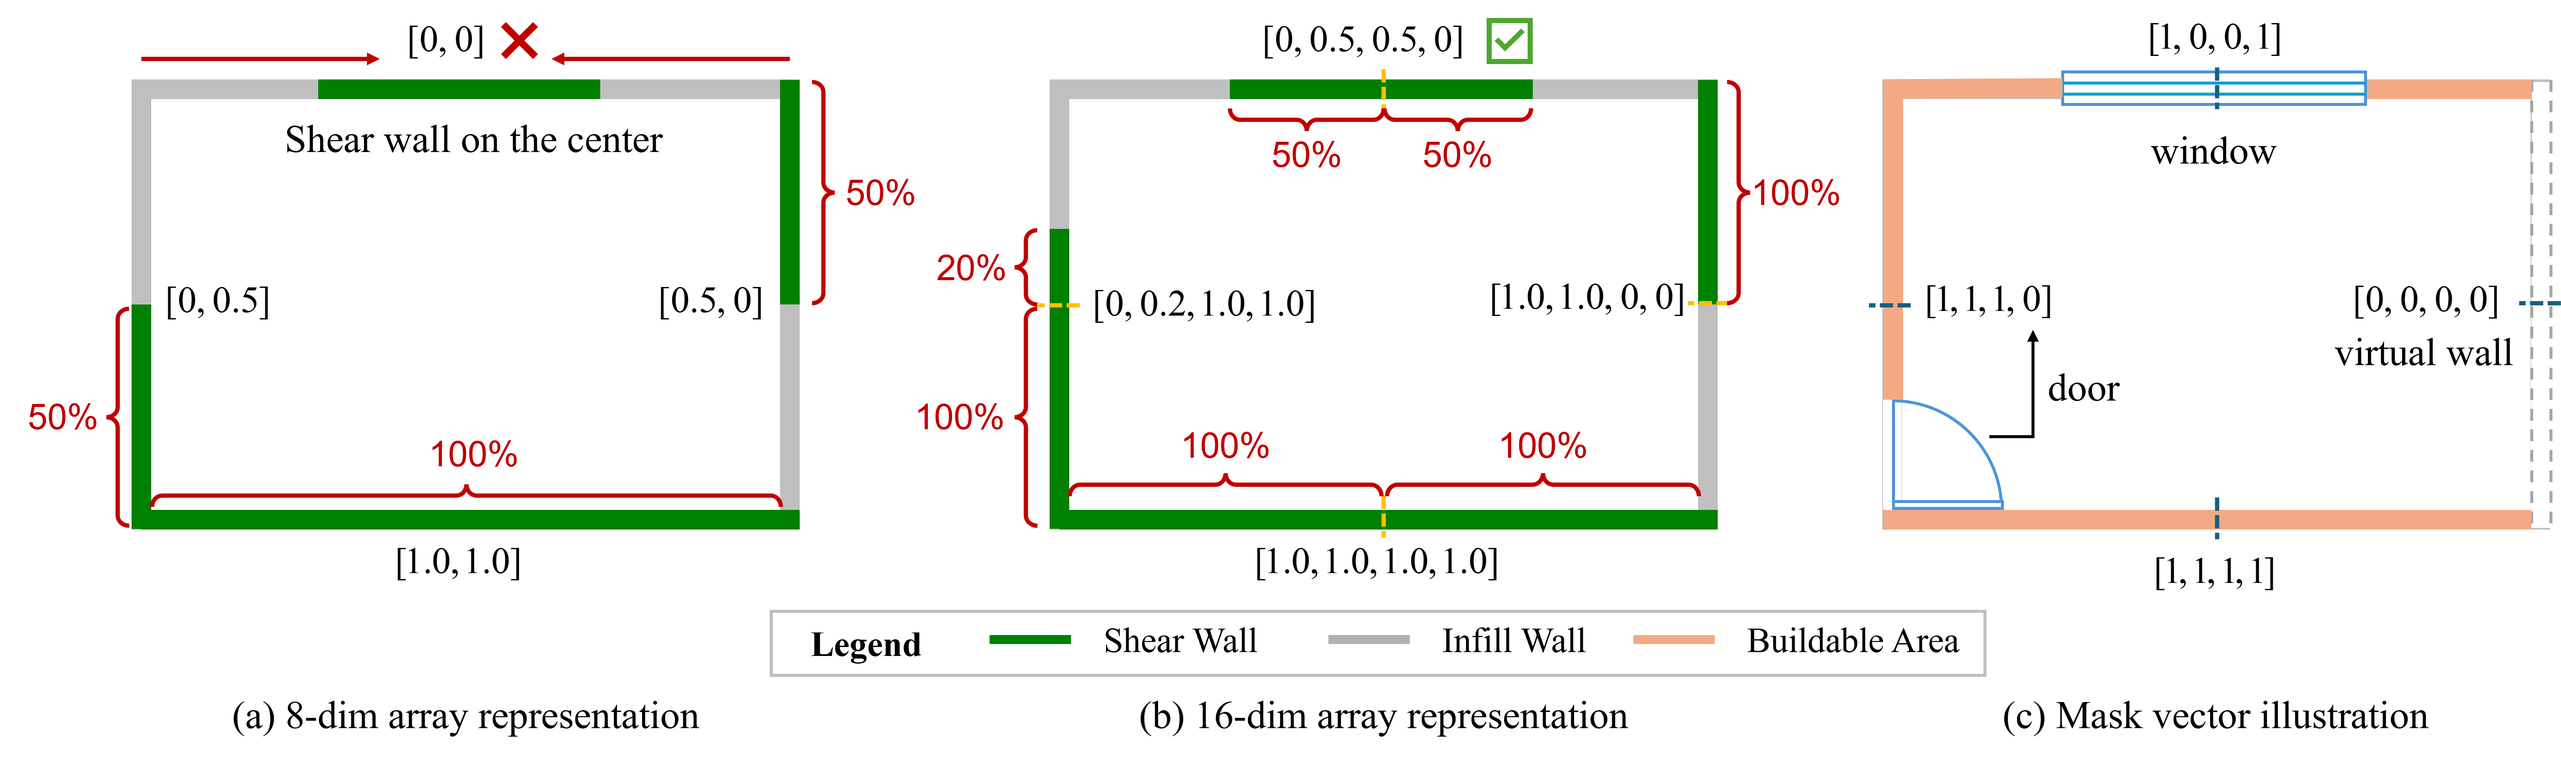
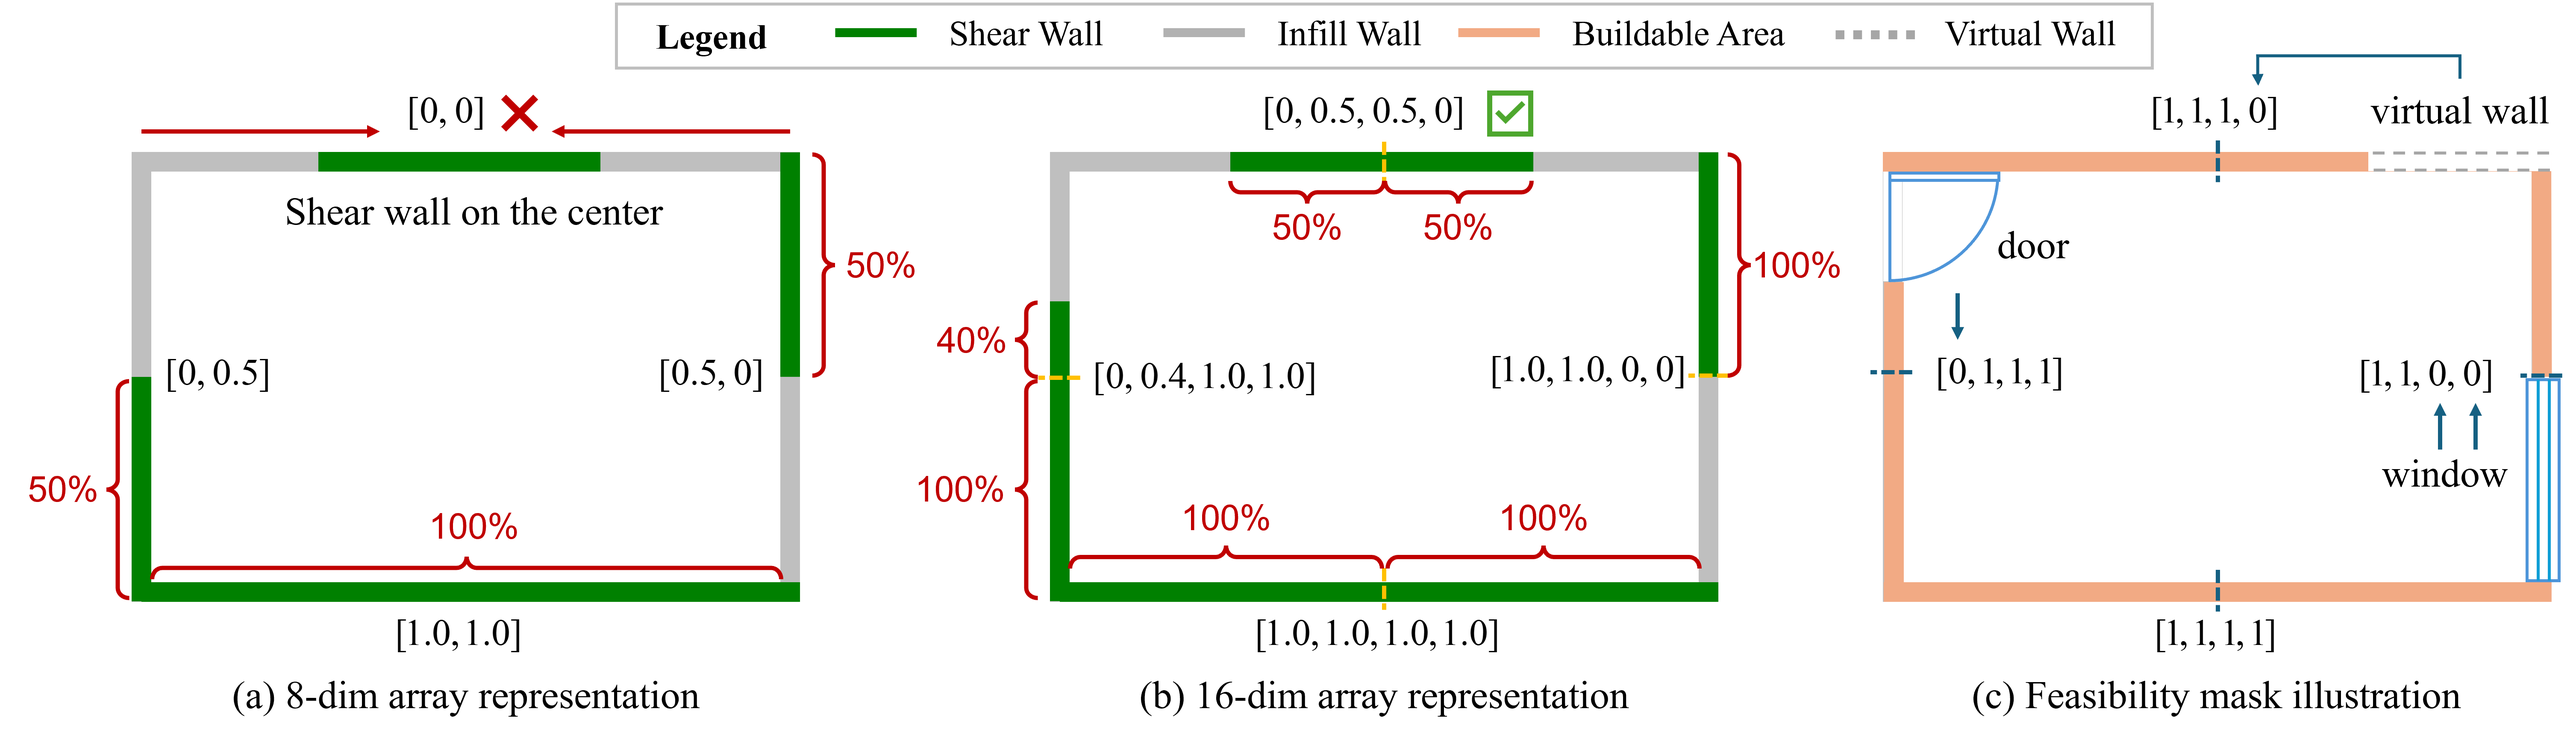
图片及正文的一些修改

diff --git a/docs/paper/latex/3methodology.tex b/docs/paper/latex/3methodology.tex
@@ -75,21 +75,21 @@ Given an architectural floor plan $\mathcal{P}$ in CAD format, the room adjacenc
 
 \textbf{Step 1: Space Partitioning.} \textcolor{red}{Wall, door and window entities are first parsed from the CAD drawing according to their layer types. Double-line wall boundaries are converted into wall centerlines, and door/window embedded segments are projected onto their host walls as openings. The wall centerlines are then calibrated by closing small drafting gaps, merging nearly collinear segments, and adjusting intersections within a geometric tolerance, producing a connected floor-plan skeleton. Polygonizing this calibrated skeleton yields closed spatial regions.} To process complex architectural layouts, a rectilinear decomposition algorithm is applied to partition any non-rectangular regions (e.g., L-shaped or T-shaped spaces) into a set of axis-aligned rectangular sub-regions. \textcolor{red}{Corridors and circulation spaces follow the same rule: rectangular regions remain unchanged, whereas irregular connected regions are decomposed into rectangular sub-regions so that the fixed boundary-slot representation introduced in Section~\ref{subsubsec:output_param} remains applicable.}
 
-\textbf{Step 2: Room Node Registration.} Each resulting rectangular sub-region with an area exceeding a minimum threshold is registered as a room node $v_i$. \textcolor{red}{Openings are associated with the corresponding room-boundary segments according to geometric overlap, so that wall placement is prohibited where doors or windows interrupt a boundary. During dataset preparation, room partitions were manually checked; visually enclosed regions that were already covered by surrounding room partitions and did not introduce an independent room or additional physical boundary were not registered as separate nodes, as shown in the white regions in Fig.~\ref{fig:graph_comparison}b.} Partition boundaries introduced during the decomposition step are treated as virtual edges that carry no structural meaning and are therefore excluded from feasible wall placement.
+\textbf{Step 2: Room Node Registration.} Each resulting rectangular sub-region with an area exceeding a minimum threshold is registered as a room node $v_i$. \textcolor{red}{Openings are associated with the corresponding room-boundary segments according to geometric overlap, so that wall placement is prohibited where doors or windows interrupt a boundary. During dataset preparation, room partitions were manually annotated; visually enclosed regions that were already covered by surrounding room partitions and did not introduce an independent room or additional physical boundary were not registered as separate nodes, as shown in the white regions in Fig.~\ref{fig:graph_comparison}b.} Partition boundaries introduced during the decomposition step are treated as virtual edges that carry no structural meaning and are therefore excluded from feasible wall placement.
 
 \textbf{Step 3: Adjacency Edge Construction.} For each pair of rooms, the shared physical boundary length $l_{ij}$ is computed. An adjacency edge $e_{ij}$ is added to $\mathcal{E}$ only if $l_{ij}$ exceeds a physical threshold $\tau_{adj}$ (set to 400 mm), which filters out minor or accidental structural contacts.
 
 \textbf{Step 4: Attribute \& Label Mapping.} Finally, the room-boundary slots, node features $\mathbf{X}$, and edge attributes $\mathbf{A}$ are computed from room geometry and spatial relationships. Ground-truth shear wall locations are extracted from structural engineering drawings and mapped to the same boundary-slot representation. \textcolor{red}{During this mapping, the effective length of a shear wall is defined as the projected overlap length between an extracted structural wall segment and a feasible room-boundary slot. Multiple wall intervals on the same slot are merged before the final coverage ratio is computed. The detailed output representation, feasibility mask, node features, and edge attributes are described in Sections~\ref{subsubsec:output_param}--\ref{subsubsec:edge_features}.}
 
-\subsubsection{Output parameterization}
+\subsubsection{Room-boundary representation and feasibility mask}
 \label{subsubsec:output_param}
 
 The shear wall layout for each room $v_i$ is parameterized as a continuous vector $\mathbf{y}_i \in [0,1]^{16}$.
 This parameterization captures wall placement along all four room boundaries with segment-level precision.
 An 8-dimensional alternative would regress two coverage ratios for each of the four boundaries (e.g., measured from the two endpoints of each boundary).
-However, this representation fails when a wall segment lies in the interior of a boundary without touching either endpoint, as both endpoint-based ratios would be close to zero and the wall could be incorrectly treated as absent.
+However, this representation fails when a wall segment lies in the interior of a boundary without touching either endpoint, as both endpoint-based ratios would be close to zero and the wall could be incorrectly treated as absent, as shown in Fig.~\ref{fig:output_param}a.
 To avoid this ambiguity, each boundary (top, right, bottom, left) is split at its midpoint into two half-segments, yielding 8 half-segments in total.
-Each half-segment is then described by two ratios, which together provide sufficient flexibility to represent walls attached to an endpoint as well as walls located away from endpoints (Fig.~\ref{fig:output_param}a,b).
+Each half-segment is then described by two ratios, which together provide sufficient flexibility to represent walls attached to an endpoint as well as walls located away from endpoints (Fig.~\ref{fig:output_param}b).
 For each half-segment $k \in \{1, \ldots, 8\}$, two values encode the wall coverage:
 
 $r_k^{start}$ denotes the fraction of the half-segment covered by wall starting from the segment's origin.
@@ -120,7 +120,7 @@ The topological consistency loss $\mathcal{L}_{cons}$ (Section~\ref{subsec:train
 \begin{figure*}[t]
 \centering
 \includegraphics[width=0.85\textwidth]{output_param_and_mask.png}
-\caption{Illustration of the 16-dimensional room-level output parameterization and the corresponding constraint mask.}
+\caption{Illustration of the 16-dimensional room-boundary representation and the corresponding feasibility mask.}
 \label{fig:output_param}
 \end{figure*}
 

diff --git a/docs/paper/latex/main.tex b/docs/paper/latex/main.tex
@@ -208,7 +208,6 @@ The dataset and all codes for this study are available by request to the corresp
 \section*{Declaration of Competing Interest}
 The authors declare that they have no known competing financial interests or personal relationships that could have appeared to influence the work reported in this paper.
 
-\par\vspace{\baselineskip}
 \section*{CRediT authorship contribution statement}
 Hao Leng: Conceptualization, Methodology, Software, Formal analysis, Data curation, Writing – original draft \& Visualization. Yuqing Gao: Conceptualization, Methodology, Editing, Review, Supervision. Ying Zhou: Conceptualization, Review, Supervision, Project administration, Funding acquisition. 
 

diff --git a/docs/paper/latex/4experiments.tex b/docs/paper/latex/4experiments.tex
@@ -37,10 +37,10 @@ Samples after augmentation (train) & 678 \\
 \toprule
 Weight setting & Full model & w/o FiLM & w/o dual-stream & w/o density loss \\
 \midrule
-Equal weights $(1/3,1/3,1/3)$ & 0.701 & 0.700 & 0.692 & 0.651 \\
+Equal weights $(1/3,1/3,1/3)$ & 0.708 & 0.700 & 0.692 & 0.651 \\
 Density-oriented $(0.5,0.25,0.25)$ & 0.713 & 0.713 & 0.702 & 0.640 \\
 Geometry-oriented $(0.25,0.5,0.25)$ & 0.661 & 0.652 & 0.650 & 0.624 \\
-Uniformity-oriented $(0.25,0.25,0.5)$ & 0.729 & 0.735 & 0.725 & 0.690 \\
+Uniformity-oriented $(0.25,0.25,0.5)$ & 0.729 & 0.715 & 0.725 & 0.690 \\
 \bottomrule
 \end{tabular*}
 \endgroup

diff --git a/docs/paper/revision/editor_comments.md b/docs/paper/revision/editor_comments.md
@@ -1,0 +1,12 @@
+Associate Editor: Thank you for choosing Automation in Construction to publish your work. The reviewers have evaluated your work and, while they see value in the submitted work, they also have major concerns and remarks that need to be addressed. A significant revision of the article is required to be able to proceed. Please look into the comments provided by the reviewers and prepare a revised version to resubmit. The authors are asked to prepare a review response letter that lists all comments one by one, in a table-like manner, and respond to each comment individually to indicate how the paper has been modified in response to the comment. Keep the review response letter sufficiently concise and focus on improving the paper. Please submit a manuscript with changes marked, as well as an unmarked version of the manuscript.
+
+In addition to the reviewer comments, the authors are requested to address also these editorial comments:
+- 5 highlights are allowed, yet each highlight can only count 85 characters, white spaces included. Please revise.
+
+- Avoid orphan headings without context: these are headers that are immediately followed by the next header, without any text in between (e.g. line 89-90, 601-603). At least add a brief introduction to explain what will be covered in the section.
+
+- It is strongly supported and actively requested to share data as part of the article publication process. Links to available data sets and/or code can be supplied in the Data Availability Statement. Even if not all data can be provided, publication of a limited dataset in support of the work done is strongly encouraged, as it allows proving the claims made in the article, and it supports replicability of research results. Recommendations on the sharing of research data can be found here: https://www.sciencedirect.com/journal/automation-in-construction/publish/guide-for-authors#writing-and-formatting-research-data
+
+- Limitations need to be included inside the Conclusion section. They are an important part of the critical reflection that is expected in the conclusion.
+
+- Check the references for completeness in details. For example, reference [1] and [2] lack an ISBN number and publisher information, [16] and [22] lacks article number, [18], [44] and [33] lack DOI. Consider replacing ref [28], [40-41] with a peer-reviewed and published version, instead of the un-peer-reviewed arXiv version. Ref [31] and [48] are incomplete.
